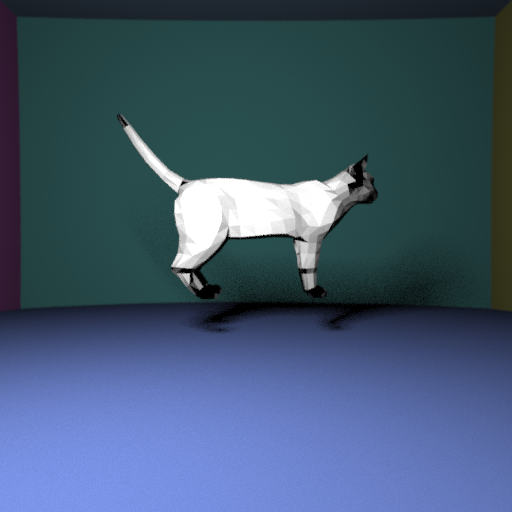
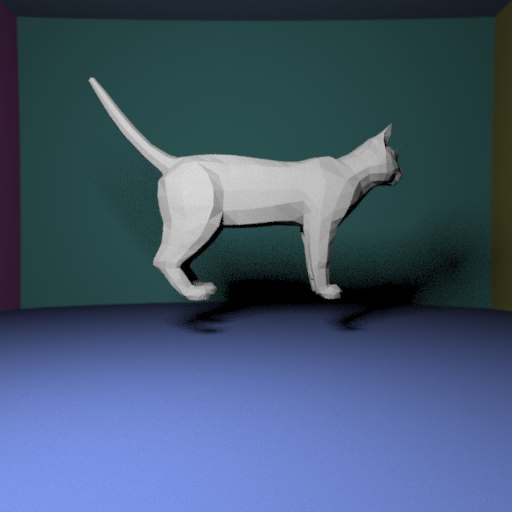
fix black triangles - add full lab 3

Changed region(s): [[0.1562, 0.1562, 0.9375, 0.6562]]

diff --git a/main.cpp b/main.cpp
@@ -303,8 +303,8 @@ class TriangleMesh : public Object {
     }
 
     void compute_bounding_box() {
-        B_max = -std::numeric_limits<double>::max() * Vector(1.0, 1.0, 1.0);
         B_min = std::numeric_limits<double>::max() * Vector(1.0, 1.0, 1.0);
+        B_max = -1 * B_min;
         for (auto vertex : vertices) {
             B_max.data[0] = std::max(B_max.data[0], vertex.data[0]);
             B_max.data[1] = std::max(B_max.data[1], vertex.data[1]);
@@ -325,15 +325,15 @@ class TriangleMesh : public Object {
 
         double tx_min = (B_min.data[0] - ray.O.data[0]) / ray.u.data[0];
         double tx_max = (B_max.data[0] - ray.O.data[0]) / ray.u.data[0];
-        if (ray.u.data[0] < -eps)
+        if (tx_max < tx_min - eps)
             std::swap(tx_min, tx_max);
         double ty_min = (B_min.data[1] - ray.O.data[1]) / ray.u.data[1];
         double ty_max = (B_max.data[1] - ray.O.data[1]) / ray.u.data[1];
-        if (ray.u.data[1] < -eps)
+        if (ty_max < ty_min - eps)
             std::swap(ty_min, ty_max);
         double tz_min = (B_min.data[2] - ray.O.data[2]) / ray.u.data[2];
         double tz_max = (B_max.data[2] - ray.O.data[2]) / ray.u.data[2];
-        if (ray.u.data[2] < -eps)
+        if (tz_max < tz_min - eps)
             std::swap(tz_min, tz_max);
         double t_min = std::max(tx_min, std::max(ty_min, tz_min));
         double t_max = std::min(tx_max, std::min(ty_max, tz_max));
@@ -361,6 +361,7 @@ class TriangleMesh : public Object {
                 found = true;
                 t = t_prime;
                 N = N_prime;
+                N.normalize();
                 P = alfa * A + beta * B + gamma * C;
             }
         }
@@ -616,7 +617,7 @@ int main() {
     TriangleMesh cat(Vector(1.0, 1.0, 1.0)); // white cat for now
 
     cat.readOBJ("cat/Models_F0202A090/cat.obj");
-    cat.scale_translate(0.5, Vector(0.0, -5.0, 0.0));
+    cat.scale_translate(0.6, Vector(0.0, -5.0, 0.0));
     cat.compute_bounding_box();
 
     Scene scene;
